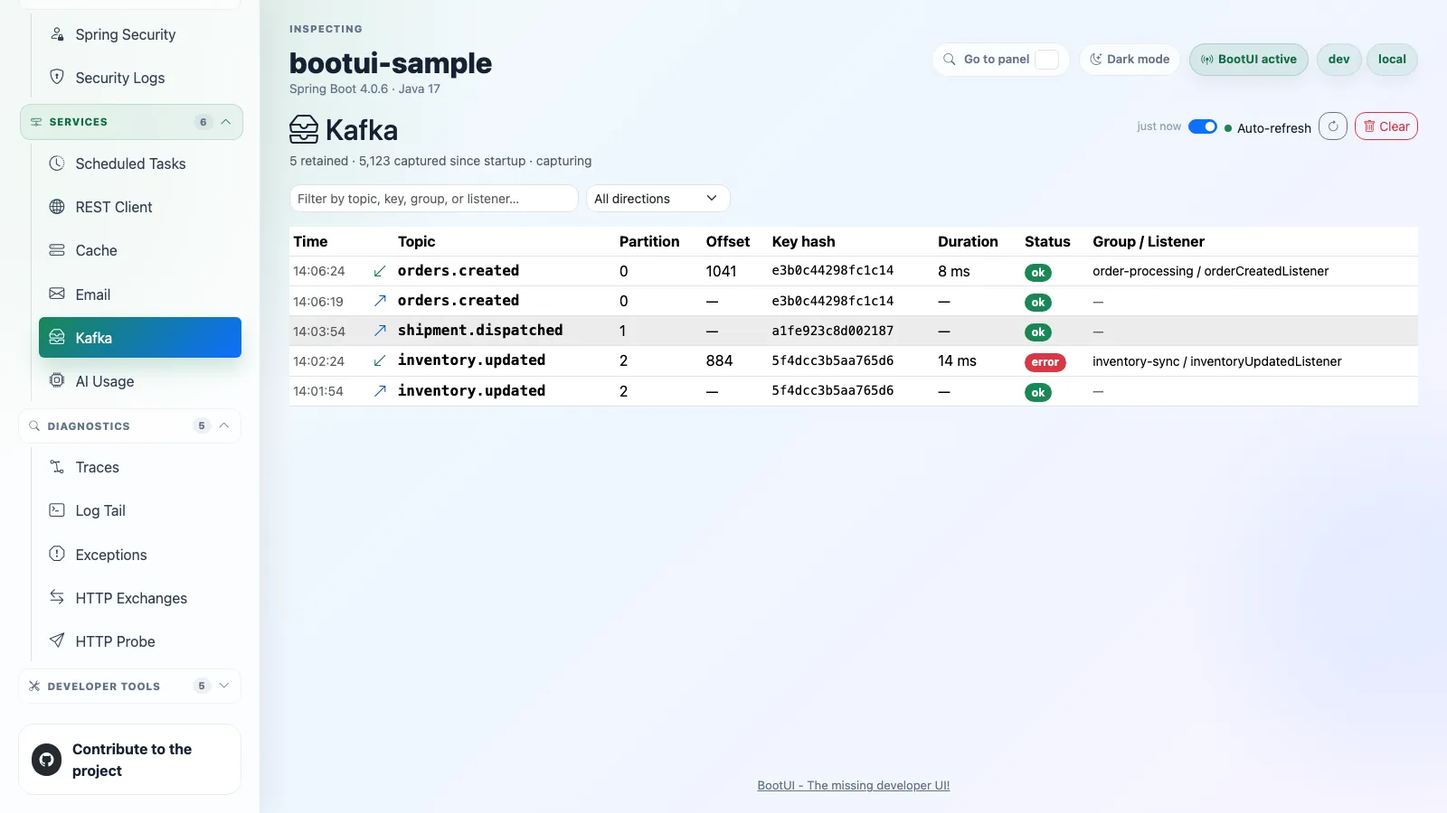
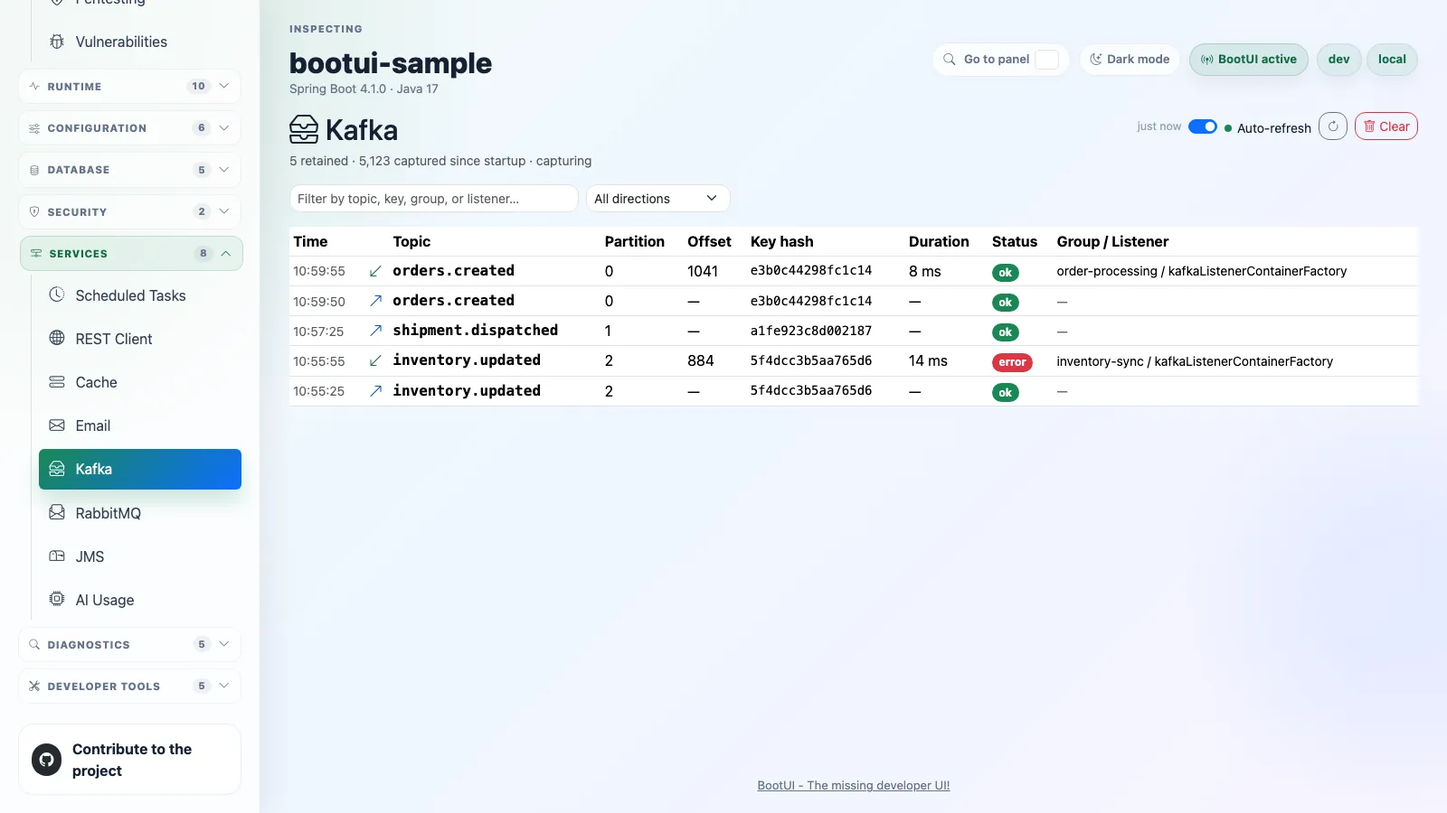
Refresh messaging documentation and screenshots (#689)
* Initial plan

* feat: add JMS messaging activity to Live Activity

- Add recordJmsProduce/recordJmsConsume to KafkaActivityRecorder (engine)
- JmsProducerCaptureBeanPostProcessor wraps JmsTemplate via CGLIB proxy
- JmsListenerCaptureBeanPostProcessor wraps AbstractJmsListenerContainerFactory
  and composes with existing message listeners via CapturingMessageListenerAdapter
- Add bootui.jms.enabled toggle to BootUiProperties
- Add jakarta.jms-api + spring-jms optional deps to spring-autoconfigure
- Fix HttpSessions class head accidentally removed when inserting Jms class
- Tests: 36 new tests (14 engine + 22 BPP); all 1367 module tests pass
- Update docs/PLAN.md and docs/FEATURES.md to document JMS support

* fix: harden JMS live activity capture

* Decouple JMS live activity capture

Give JMS its own framework-neutral recorder, retention settings, counters, and Live Activity mapping so it no longer shares Kafka state while preserving Spring-level interception.

* Add dedicated JMS activity panel

Expose the independent Spring JMS capture through a filterable Services panel, wire shared availability and access policy across adapters, and keep Quarkus explicitly not yet available.

Copilot-Session: f5f7bcaa-34aa-4069-bf48-c7edaa9d489c

* Harden messaging activity coherence

Copilot-Session: f5f7bcaa-34aa-4069-bf48-c7edaa9d489c

* docs: refresh messaging documentation
[…]

diff --git a/docs/QUARKUS-SUPPORT.md b/docs/QUARKUS-SUPPORT.md
@@ -164,10 +164,12 @@ extension of the mechanism `App.vue` already uses, so the same UI build renders 
 > **Implementation status (current).** The Quarkus adapter now lights up the large majority of the panel set — all of
 > §5.1 and §5.2 below, plus the advisors (Architecture, the Quarkus application advisor replacing Spring, Hibernate,
 > Pentesting, a Quarkus-native Security advisor, REST API, Memory) and the §5.3 capture panels (HTTP Exchanges, Live
-> Activity, Log Tail, SQL Trace, REST Client, Exceptions, Security Logs, Email, Kafka). **Action-capable panels behave identically to Spring**,
-> behind the shared `LocalhostGuard` write floor: Heap Dump (capture/analyze/delete/download), Threads (download), the
-> advisor scans, Loggers (set level), HTTP Probe, Cache (clear), Flyway (migrate/clean), Liquibase (update), Traces
-> (clear), Email (clear), Kafka (clear), REST Client Reactive (clear + recording toggle), and the MCP Server toggle. Only **GraalVM**, **CRaC**, **Conditions**, **Startup Timeline**,
+> Activity, Log Tail, SQL Trace, REST Client, Exceptions, Security Logs, Email, Kafka, RabbitMQ).
+> **Action-capable panels behave identically to Spring**, behind the shared `LocalhostGuard` write floor: Heap Dump
+> (capture/analyze/delete/download), Threads (download), the advisor scans, Loggers (set level), HTTP Probe, Cache
+> (clear), Flyway (migrate/clean), Liquibase (update), Traces (clear), Email (clear), Kafka (clear), RabbitMQ (clear),
+> REST Client Reactive (clear + recording toggle), and the MCP Server toggle. Only **GraalVM**, **CRaC**,
+> **Conditions**, **Startup Timeline**,
 > **HTTP Sessions**, **Spring Data**, **Spring Security**, and **DevTools** stay unavailable with a panel-specific
 > not-applicable reason (§5.5). The per-panel `**Implemented**` markers below and `docs/FEATURES.md` carry the authoritative, current
 > per-platform detail.
@@ -221,6 +223,17 @@ The DTO and UI are reused; the Quarkus adapter rebuilds the capture/source on th
 | `Email`               | **Implemented** — captured via a CDI `@Observes SentMail` observer (`QuarkusEmailCapture`) into the shared `EmailCaptureService`, replacing Spring's `CapturingJavaMailSender` decorator; one observer catches the blocking/reactive/Mutiny send styles (all funnel through the internal mailer that fires `io.quarkus.mailer.SentMail` after each successful send, mock or real). Gated on `quarkus-mailer` — the sole `io.quarkus.mailer`-importing class (`QuarkusEmailCapture`) is `provided`-scoped and excluded by the deployment `registerEmail` build step (class-presence check on `io.quarkus.mailer.reactive.ReactiveMailer`, non-prod only) when absent, R2; the mailer-free `EmailResource`/`EmailCaptureService` are always wired, so `GET /bootui/api/email` renders `available:false` with a `quarkus-mailer` hint rather than throwing. The `.eml` download delegates to the shared engine renderer so the bytes match Spring. Reduced fidelity: because the event fires *after* the send, there is no BootUI dev-trap — the sent/not-sent distinction instead reflects the framework's own mock-mail mode (`quarkus.mailer.mock`, default in dev/test), labelled **mock** in the UI; attachment size is unknown (the sent-attachment API exposes none). Content masking is identical (revealed by default, decoupled from `bootui.expose-values`; opt in with `bootui.email.mask-content=true`). `clear` (DELETE) behind the `LocalhostGuard` write floor |
 | `Kafka`               | **Implemented** — the standalone panel over the same shared `KafkaActivityRecorder`/`Capability.KAFKA` gate described in the `Live Activity` row above; `GET`/`DELETE /bootui/api/kafka` mirror Spring's `KafkaController` contract exactly (list newest-first, clear), and the same reduced-fidelity notes carry over unchanged: metadata-only capture (never the payload), a null consumer group id (`IncomingKafkaRecordMetadata` exposes none), the channel name used as the listener id, and a null producer duration (the ack callback carries no send-start timestamp). Reports unavailable with a `quarkus-messaging-kafka` hint when the capability is absent. `clear` (DELETE) behind the `LocalhostGuard` write floor |
 | `RabbitMQ`            | **Implemented** — the standalone panel over the shared `RabbitActivityRecorder` and class-presence gate described in the `Live Activity` row above; `GET`/`DELETE /bootui/api/rabbitmq` mirror Spring's list/clear contract. Capture is metadata-only, correlation IDs are omitted by default and hashed when explicitly enabled, and failures use generic text. Reports unavailable with a `quarkus-messaging-rabbitmq` hint when the connector is absent. `clear` (DELETE) behind the shared write and panel read-only gates |
+
+**Current Quarkus messaging interceptor limitations.** Incoming Kafka/RabbitMQ deliveries carry connector metadata and
+are captured normally. An outgoing message is captured only when it already carries the matching
+`OutgoingKafkaRecordMetadata` or `OutgoingRabbitMQMetadata`; a payload-only emission that relies entirely on channel
+configuration is not visible at the interceptor callback. SmallRye also selects only one default
+`OutgoingInterceptor` and one default `IncomingInterceptor` per channel. BootUI's Kafka and RabbitMQ pairs are both
+default-qualified at the same fallback priority, so an application that installs both connectors currently gets capture
+for only the pair SmallRye selects; a channel-specific application interceptor takes precedence over BootUI as designed.
+Finally, Kafka availability is currently gated by the broad Quarkus `KAFKA` capability, so an application with only the
+lower-level `quarkus-kafka-client` can over-report the panel as available even though Reactive Messaging capture is not
+wired.
 
 **Why the per-request profiler (`GET /bootui/api/activity/{id}`) is trace-id-only on Quarkus.** Spring's
 `/activity/request/{id}` profiler is a Symfony-style join across SQL, exceptions, security audit events, the distributed
@@ -524,13 +537,14 @@ Pentesting, HTTP Probe, MCP Server) need no special ingredients — they work ag
 | REST API            | **done**    | Rebuild | REST conventions engine          | JAX-RS handler-model builder                |
 | DB Connection Pools | **done**    | Rebuild | Pool model                       | `DataSourcePoolProvider` → Agroal           |
 | SQL Trace           | **done**    | Rebuild | SQL trace model                  | `SqlTraceSource` → Agroal/JDBC              |
-| Live Activity       | **done**    | Rebuild | Activity model                   | `RequestCaptureSource` → Vert.x; OTel trace-id correlation + trace-id-only profile drill-down; optional JDBC persistence backend via `QuarkusActivityCapture` (unconditional producers, identical to Spring); Kafka messaging capture via SmallRye `Outgoing`/`IncomingInterceptor` (`Capability.KAFKA`-gated) feeding the shared `KafkaActivityRecorder`; captured email (`MAIL`) reuses the shared `EmailCaptureService` directly, no separate capture needed |
+| Live Activity       | **done**    | Rebuild | Activity model                   | `RequestCaptureSource` → Vert.x; OTel trace-id correlation + trace-id-only profile drill-down; optional JDBC persistence backend via `QuarkusActivityCapture` (unconditional producers, identical to Spring); Kafka and RabbitMQ messaging capture via SmallRye `Outgoing`/`IncomingInterceptor` feeding the shared transport recorders; captured email (`MAIL`) reuses the shared `EmailCaptureService` directly, no separate capture needed |
 | HTTP Exchanges      | **done**    | Rebuild | Exchange model                   | `HttpExchangeProvider` → Vert.x             |
 | Exceptions          | **done**    | Rebuild | Exception model                   | log handler + Vert.x failure handler + `PreExceptionMapperHandlerBuildItem` |
 | Security Logs       | **done**    | Rebuild | Audit model                      | `AuditEventProvider` → CDI events           |
 | Log Tail            | **done**    | Rebuild | Log tail model                   | `LogCaptureSource` → JBoss LogManager       |
 | Email               | **done**    | Rebuild | Email capture service            | CDI `@Observes SentMail` observer → quarkus-mailer |
 | Kafka               | **done**    | Rebuild | `KafkaActivityRecorder`          | SmallRye `Outgoing`/`IncomingInterceptor` (`Capability.KAFKA`-gated); same recorder as Live Activity |
+| RabbitMQ            | **done**    | Rebuild | `RabbitActivityRecorder`         | SmallRye `Outgoing`/`IncomingInterceptor` (`quarkus-messaging-rabbitmq` class-presence-gated); same recorder as Live Activity |
 | JMS                 | spring-only | Rebuild | `JmsActivityRecorder`            | Quarkus JMS capture not yet implemented; use Kafka/RabbitMQ panels |
 | REST Client         | **done**    | Rebuild | `RestClientTraceRecorder`        | `Capability.REST_CLIENT_REACTIVE`-gated generated `RestClientListener` service provider → metadata-only `QuarkusRestClientTraceFilter`; URI sanitization, status-0 transport failures, trace correlation, SSE/actions, and absent-extension type exclusion |
 | Spring              | **done**    | Replace | Scanning engine                  | new `Quarkus` advisor ruleset               |

diff --git a/docs/PLAN.md b/docs/PLAN.md
@@ -75,7 +75,7 @@ shipped. The bean/dependency graph visualization (§3.2) is the one remaining it
 | 1        | Bean / dependency graph visualization | Configuration | Existing Beans and Conditions data                 | No                | Existing roadmap |
 | Done     | E-mail Viewer                         | Services      | Intercepted `JavaMailSender`                       | No (capture only) | New addition     |
 | Done     | Live Activity — REST call capture     | Diagnostics   | Intercepted `RestClient`/`RestTemplate`/`WebClient` | No (capture only) | Shipped |
-| Done     | Live Activity — new event types       | Diagnostics   | Cache, scheduled-task, Kafka, JMS, and mail capture sources (see §3.4) | No (capture only) | Cache, Scheduled Tasks, Kafka, JMS (Spring), and Mail all shipped |
+| Done     | Live Activity — new event types       | Diagnostics   | Cache, scheduled-task, Kafka, RabbitMQ, JMS, and mail capture sources (see §3.4) | No (capture only) | Cache, Scheduled Tasks, Kafka, RabbitMQ, JMS (Spring), and Mail all shipped |
 
 The Trace ↔ Log ↔ Request correlation work in §3.1 has shipped as the **Live Activity** panel, building on the
 already-shipped HTTP Exchanges panel and the existing Traces and Log Tail panels. The E-mail Viewer (§3.3) has shipped as
@@ -255,20 +255,22 @@ Scope — new event types, roughly in priority order:
   `OutgoingInterceptor`/`IncomingInterceptor` SPI as the Kafka capture
   (`QuarkusRabbitProducerCapture`/`QuarkusRabbitConsumerCapture`), capability-gated on `IncomingRabbitMQMetadata`
   class presence via a `registerRabbitCapture` deployment build-step (production-dark, R2), exactly like
-  Hibernate/Cache/Flyway. Both adapters capture direction, exchange, routing key, queue, success/failure, timing,
-  and (opt-in via `bootui.rabbitmq.capture-correlation-id=true`, default `false`) a hashed correlation ID —
-  never the message body, arbitrary headers, or raw exception messages. Both SmallRye capture pairs are the sole importers
-  of their connector-specific metadata types, are excluded from bean discovery when their extension is absent, are
-  pass-through/fail-open, and use the lowest interceptor precedence so an application's own channel interceptor wins.
+  Hibernate/Cache/Flyway. Both adapters use the same DTO for direction, routing metadata, success/failure, timing, and
+  (opt-in via `bootui.rabbitmq.capture-correlation-id=true`, default `false`) a hashed correlation ID; Quarkus leaves
+  producer exchange, consumer queue, and producer duration unavailable because SmallRye's callbacks do not expose them.
+  Neither adapter captures the message body, arbitrary headers, or raw exception messages. Both SmallRye capture pairs
+  are the sole importers of their connector-specific metadata types, are excluded from bean discovery when their
+  extension is absent, are pass-through/fail-open, and use the lowest interceptor precedence so an application's own
+  channel interceptor wins.
   `LiveActivityResource` merges both recorders' `MESSAGING` entries into the feed adapter-side (top-level, no request
   correlation), preserving the same wire shape across adapters. Kafka, RabbitMQ, and JMS are three unrelated client APIs,
   so each keeps an adapter-specific interception seam, a framework-neutral recorder, and an independent bounded buffer.
   Interception itself is more invasive than any existing capture source: it means wrapping the app's own messaging beans
   (a `BeanPostProcessor`, mirroring the existing HTTP Exchanges repository wrapper) or registering interceptor/advice
-  hooks, so pass-through-by-default and fail-open wrapping are non-negotiable design constraints, and message bodies
-  need their own bounding/masking design (arbitrary, potentially large application payloads, unlike a SQL statement or
-  HTTP header). On Quarkus, the interception point was different in kind, not just in wiring: Quarkus applications
-  typically use SmallRye Reactive Messaging (`@Incoming`/`@Outgoing` channels) rather than Spring's imperative
+  hooks, so pass-through-by-default and fail-open wrapping are non-negotiable design constraints; message bodies are
+  never captured rather than entrusted to a generic masker (they are arbitrary, potentially large application payloads,
+  unlike a SQL statement or HTTP header). On Quarkus, the interception point was different in kind, not just in wiring:
+  Quarkus applications typically use SmallRye Reactive Messaging (`@Incoming`/`@Outgoing` channels) rather than Spring's imperative
   `spring-kafka`/`spring-rabbit` templates, so the Quarkus capture is a per-adapter interceptor pair rather than the
   thinner Cache/Flyway provider seams — closer to the Beans panel's `BeanProvider` split (CDI vs. Spring bean
   introspection) in spirit, though the shared, framework-neutral recorders and entry mappings keep the engine seam intact.
@@ -278,7 +280,7 @@ Scope — new event types, roughly in priority order:
 - **Captured email — ✅ Shipped (both adapters).** The standalone Email panel (§3.3) already captured every outgoing
   message via the shared, framework-neutral `EmailCaptureService`; this item only adds a `MAIL` entry to the merged Live
   Activity feed, so — like Cache and Scheduled Task runs — it needed no new capture instrumentation, just a read of an
-  existing buffer. Unlike Kafka `MESSAGING` entries (always top-level, no correlation attempted, since a message has no
+  existing buffer. Unlike `MESSAGING` entries (always top-level, no correlation attempted, since a message has no
   single owning request), `MAIL` nests as a `REQUEST` child whenever the captured message's trace id matches an
   in-flight request — the same trace-id-then-thread `parentRequestId` join `SQL`/`CACHE` already use (`EXCEPTION`/
   `SECURITY` predate this join and are correlated differently depending on adapter: on Spring **servlet** (MVC),
@@ -324,9 +326,10 @@ Scope — enhancements on top of the shipped event types, generally cheaper than
   (Scheduled Task runs).
 - **Verify persistence and filtering stay generic over `type`** as new event types are added — `JdbcActivityStore`,
   `BufferedActivityStore`, and the client-side type filter chips pick up new types automatically; keep confirming this
-  with tests if any further event type (e.g. RabbitMQ messaging) lands later.
-- **Add deep links** for each entry type into its own source panel — Cache and Scheduled Tasks entries now link to
-  `/cache` and `/scheduled` respectively, and REST Client entries link to `/rest-client-trace`, joining the existing
+  with tests if any further event type lands.
+- **Add deep links** for each entry type into its own source panel — Cache, Scheduled Tasks, Kafka, RabbitMQ, JMS, and
+  REST Client entries now link to `/cache`, `/scheduled`, `/kafka`, `/rabbitmq`, `/jms`, and `/rest-client-trace`,
+  respectively, joining the existing
   per-entry deep links into HTTP Exchanges (REQUEST), SQL Trace (SQL), and Exceptions (EXCEPTION); the KPI strip's own
   launchpad cards additionally deep-link Health and Heap usage.
 
@@ -334,13 +337,13 @@ Design constraints:
 
 - Every new source stays **read-only** and **fails closed** when its backing bean/class is absent, consistent with
   §3.1/§3.3 and the cross-cutting rules in §4.
-- Sensitive payloads (cache keys/values, message bodies) are masked by default and follow the same value-exposure model
-  as the rest of the panel; cache keys are hashed rather than shown raw even under full exposure.
+- Messaging payloads are never captured; cache values are omitted and cache keys are hashed rather than shown raw even
+  under full exposure.
 - New capture buffers are bounded and self-filtering (BootUI's own traffic must not appear in its own feed), consistent
   with the existing `bootui.monitoring.exclude-self` behaviour.
-- Actual shipped sequencing: Scheduled Task runs and Cache operations landed first, then Kafka messaging, then Mail,
-  then REST call capture last — all five now shipped, each with `REQUEST`-nesting from day one where a nesting
-  relationship applies (Kafka `MESSAGING` is the deliberate exception: always top-level, no correlation attempted).
+- Actual shipped sequencing: Scheduled Task runs and Cache operations landed first, then `MESSAGING` (initially Kafka,
+  later RabbitMQ and Spring JMS), then Mail, and finally REST call capture — all five event types now ship, each with
+  `REQUEST`-nesting where a nesting relationship applies (`MESSAGING` is deliberately always top-level).
 
 ## 4. Cross-cutting work for every new panel
 

diff --git a/docs/SPECIFICATION.md b/docs/SPECIFICATION.md
@@ -841,8 +841,12 @@ Features:
   `KafkaConsumerCaptureBeanPostProcessor` wrap application-owned `KafkaTemplate` and `@KafkaListener` container factory
   beans — composing with, never replacing, any `ProducerListener`/`RecordInterceptor` the application already
   configured, mirroring the HTTP Exchanges repository-wrapper precedent. On Quarkus, SmallRye Reactive Messaging Kafka
-  interceptors capture the same metadata. Each entry carries topic, partition, offset (consume only), a hash of the key,
-  direction, success/failure, and — for consumed records — consumer group id, listener id, and processing duration.
+  interceptors capture the same metadata their callback exposes. Each entry carries topic, partition, offset (consume
+  only), a hash of the key, direction, success/failure, and — for consumed records — listener id and processing
+  duration. Spring also captures the consumer group id; Quarkus leaves group id and producer duration unavailable.
+  Quarkus incoming deliveries carry connector metadata automatically, while an outgoing message is recorded only when
+  `OutgoingKafkaRecordMetadata` is attached before the interceptor; payload-only emissions that rely solely on channel
+  configuration are not captured.
   Only metadata is captured; the message value/payload is never captured or masked, since it is an arbitrary
   application payload with no generic masking strategy. Raw exception messages are never retained; failed operations
   use generic failure text. Kafka entries are always top-level by design — no request-parent correlation is attempted,
@@ -851,6 +855,17 @@ Features:
   container factory bean name (the resolved per-`@KafkaListener` id is not exposed at the factory-wide interception
   point), while on Quarkus it carries the channel name. Controlled by `bootui.kafka.enabled`,
   `bootui.kafka.capture-key`, `bootui.kafka.max-entries`, and `bootui.kafka.max-key-length`.
+- RabbitMQ producer/consumer capture: on Spring, post-processors compose with every application-owned `RabbitTemplate`
+  before-publish processor and listener-container-factory advice chain; on Quarkus, SmallRye Reactive Messaging
+  `OutgoingInterceptor`/`IncomingInterceptor` implementations are class-presence-gated on
+  `quarkus-messaging-rabbitmq`. Both feed the shared, framework-neutral `RabbitActivityRecorder`. Captured metadata is
+  bounded and payload-free: direction, routing metadata, outcome, consumer duration, and—when explicitly enabled—a
+  truncated SHA-256 correlation-ID hash. Quarkus leaves producer exchange, consumer queue, and producer duration
+  unavailable because its callbacks do not expose them, and records an outgoing message only when
+  `OutgoingRabbitMQMetadata` is already attached. Message bodies, arbitrary headers, raw correlation IDs, and exception
+  messages are never retained; failures use generic text. RabbitMQ entries are always top-level, like Kafka.
+  Controlled by `bootui.rabbitmq.enabled`, `bootui.rabbitmq.capture-correlation-id`,
+  `bootui.rabbitmq.max-entries`, and `bootui.rabbitmq.max-correlation-id-length`.
 - JMS producer/consumer capture: on Spring MVC and WebFlux only, classpath-gated post-processors wrap application-owned
   `JmsTemplate` and `AbstractJmsListenerContainerFactory` beans without replacing converters, callbacks, listeners, or
   error handlers. The producer proxy records each public send operation once even when `convertAndSend` delegates
@@ -1105,11 +1120,13 @@ Data sources:
 Acceptance criteria:
 
 - Available whenever a `KafkaTemplate` bean is present on Spring, or the Quarkus `KAFKA` capability is present in a
-  non-production launch; otherwise the panel reports a clear unavailable reason instead of an empty list.
+  non-production launch; configured channels determine whether Quarkus records activity but do not gate panel
+  availability. Otherwise the panel reports a clear unavailable reason instead of an empty list.
 - Only metadata is ever captured — direction (`PRODUCE`/`CONSUME`), topic, partition, offset, duration,
-  success/failure, consumer group id, and listener/channel id. The message value/payload is never captured at all,
-  regardless of configuration, since it is an arbitrary, potentially large application payload with no generic
-  masking strategy (unlike a SQL statement or a config value). Raw exception messages are never retained; failure text
+  success/failure, consumer group id when the adapter exposes it (Spring), and listener/channel id. The message
+  value/payload is never captured at all, regardless of configuration, since it is an arbitrary, potentially large
+  application payload with no generic masking strategy (unlike a SQL statement or a config value). Raw exception
+  messages are never retained; failure text
   is generic.
 - The message key is never retained verbatim: when `bootui.kafka.capture-key=true` (the default), a SHA-256 hash of
   the key is captured and truncated to `bootui.kafka.max-key-length` hex characters; when disabled, the key is
@@ -1138,6 +1155,30 @@ Acceptance criteria:
   `bootui.panels.rabbitmq.read-only`. Disabling the RabbitMQ panel also stops its underlying capture.
 - Spring panel availability requires a `RabbitTemplate` bean. Quarkus availability requires the RabbitMQ messaging
   extension in a non-production launch. Dependency absence must not link optional RabbitMQ classes or advertise capture.
+- Quarkus preserves the shared wire contract but leaves producer exchange, consumer queue, and producer duration
+  unavailable because the SmallRye callbacks do not expose them.
+
+### 5.14.8 JMS Panel
+
+Purpose: show payload-free Spring JMS producer/consumer activity over the same independent bounded capture that feeds
+Live Activity's `MESSAGING` entries.
+
+Acceptance criteria:
+
+- Spring MVC and WebFlux wrap application-owned `JmsTemplate` and `AbstractJmsListenerContainerFactory` beans while
+  preserving converters, callbacks, listener dispatch interfaces, and error handlers. Direct lower-level
+  `JMSContext`/`MessageProducer`/`MessageConsumer` calls remain outside this Spring integration seam.
+- Only bounded metadata is captured: direction, sanitized destination, duration, success/failure type, subscription,
+  listener id, and—by default—a truncated hash of the provider-assigned message id (opt out with
+  `bootui.jms.capture-message-id=false`). Payloads, arbitrary headers/properties, raw message ids, provider-specific
+  destination strings, and exception messages are never retained.
+- The independent buffer is capped by `bootui.jms.max-entries`; disabling `bootui.jms.enabled` or the JMS panel stops
+  capture without affecting Kafka or RabbitMQ retention.
+- `GET /bootui/api/jms` lists entries newest-first and supports destination, message-id, subscription, listener,
+  failure-type, and direction filtering. Confirmation-gated `DELETE /bootui/api/jms` clears the shared panel/Live
+  Activity buffer and is blocked by `bootui.panels.jms.read-only`.
+- Spring availability requires a `JmsTemplate` bean and reports unavailable in a GraalVM native image because runtime
+  class proxies cannot be generated. Quarkus reports the panel not yet available and directs users to Kafka or RabbitMQ.
 
 ### 5.15 Profile Diff Panel
 

diff --git a/docs/FEATURES.md b/docs/FEATURES.md
@@ -1281,13 +1281,15 @@ Capture is on by default whenever a Kafka integration is present and the panel i
 `docs/PROPERTIES.md`. Turning off key capture (`bootui.kafka.capture-key=false`) is reflected in the panel with a notice
 instead of blank hashes, and turning off capture entirely (`bootui.kafka.enabled=false`) leaves already-captured
 messages visible with a similar notice. The panel is available only when a `KafkaTemplate` bean is present (e.g.
-`spring-kafka`); otherwise it reports a clear unavailable reason.
+Spring Boot's `spring-boot-starter-kafka`); otherwise it reports a clear unavailable reason.
 
-On Quarkus the panel is identical, running over the same shared engine `KafkaActivityRecorder` and the same
-`/bootui/api/kafka` contract (list/clear); the same difference already documented for Live Activity applies here too —
-the listener identifier is the channel name rather than a listener container factory bean name. The panel is available
-when `quarkus-messaging-kafka` is on the classpath with at least one `@Incoming`/`@Outgoing` channel configured (and
-dark in production); otherwise it reports a clear unavailable reason.
+On Quarkus the same UI and `/bootui/api/kafka` contract (list/clear) run over the shared engine
+`KafkaActivityRecorder`, with the reduced metadata exposed by SmallRye Reactive Messaging: the listener identifier is
+the channel name, while consumer group id and producer duration are unavailable. The panel is available when
+`quarkus-messaging-kafka` is on the classpath in a non-production launch; configured `@Incoming`/`@Outgoing` channels
+determine whether it receives any activity. Incoming deliveries carry connector metadata automatically; outgoing
+messages are captured only when they already carry `OutgoingKafkaRecordMetadata`, so a payload-only emission that relies
+entirely on channel configuration is not recorded. Without the extension the panel reports a clear unavailable reason.
 
 ![BootUI Kafka panel](./images/bootui-kafka.webp)
 
@@ -1312,10 +1314,13 @@ Capture is on by default whenever a RabbitMQ integration is present and the pane
 `bootui.rabbitmq.max-correlation-id-length` — see `docs/PROPERTIES.md`. The panel is available when a `RabbitTemplate`
 bean is present (e.g. `spring-rabbit` / `spring-boot-starter-amqp`); otherwise it reports a clear unavailable reason.
 
-On Quarkus the panel is identical, running over the same shared engine `RabbitActivityRecorder` and the same
-`/bootui/api/rabbitmq` contract (list/clear). The panel is available when `quarkus-messaging-rabbitmq` is on the
-classpath (and dark in production); otherwise it reports a
-clear unavailable reason.
+On Quarkus the same UI and `/bootui/api/rabbitmq` contract (list/clear) run over the shared engine
+`RabbitActivityRecorder`. SmallRye does not expose a producer exchange, consumer queue, or producer duration at these
+callbacks, so those per-message fields render as unavailable; routing key, outcome, and opt-in correlation-ID hash
+remain available. The panel is available when `quarkus-messaging-rabbitmq` is on the classpath in a non-production
+launch. Incoming deliveries carry connector metadata automatically; outgoing messages are captured only when they
+already carry `OutgoingRabbitMQMetadata`, so a payload-only emission that relies entirely on channel configuration is
+not recorded. Without the extension the panel reports a clear unavailable reason.
 
 ![BootUI RabbitMQ panel](./images/bootui-rabbitmq.webp)
 
@@ -1331,13 +1336,15 @@ Capture uses the same `JmsActivityRecorder` as Live Activity, so both surfaces s
 also clears retained JMS entries from the merged feed. Filter by destination, message-ID hash, subscription, listener, or
 failure type; narrow the table to produced or consumed messages; and use the confirmation-gated clear action to reset the
 bounded buffer. `bootui.jms.enabled`, `bootui.jms.capture-message-id`, `bootui.jms.max-entries`, and
-`bootui.jms.max-message-id-length` configure both surfaces. The panel is available when a `JmsTemplate` bean is present;
-otherwise it remains visible with a clear unavailable reason.
+`bootui.jms.max-message-id-length` configure both surfaces. The panel is available when a `JmsTemplate` bean is present
+(for example through Spring Boot's Artemis starter); otherwise it remains visible with a clear unavailable reason.
 
 JMS capture is currently Spring-only. On Quarkus the shared route remains visible but reports the panel not yet available;
 BootUI directs Quarkus applications to the Kafka and RabbitMQ panels backed by Reactive Messaging instead. The Spring
 interception uses runtime class proxies, so the JMS panel reports unavailable in a GraalVM native image rather than
 claiming capture is active when those proxies cannot be generated.
+
+![BootUI JMS panel](./images/bootui-jms.webp)
 
 ### AI Usage
 

diff --git a/docs/PROPERTIES.md b/docs/PROPERTIES.md
@@ -392,10 +392,13 @@ drawer additionally lists the flagged group's call site(s) whenever `bootui.sql-
 When Kafka support is present, BootUI captures producer/consumer outcomes into the Live Activity stream as `MESSAGING`
 entries. Spring does this by wrapping application-owned `KafkaTemplate` and `@KafkaListener` container factory beans;
 Quarkus does it through SmallRye Reactive Messaging Kafka interceptors. Only metadata is captured — topic, partition,
-offset, a hash of the key, timing, success/failure, consumer group id, and listener id — the message value/payload is
-never captured, and failure text is generic so exception messages cannot leak payload or credentials. On Spring, that
-listener-id field currently carries the listener container factory bean name (not the resolved per-`@KafkaListener` id);
-on Quarkus it carries the channel name. See [SPECIFICATION.md §5.14.2](./SPECIFICATION.md).
+offset, a hash of the key, timing, success/failure, consumer group id when exposed, and listener id — the message
+value/payload is never captured, and failure text is generic so exception messages cannot leak payload or credentials.
+On Spring, the consumer group is available and the listener-id field currently carries the listener container factory
+bean name (not the resolved per-`@KafkaListener` id); on Quarkus the group is unavailable and the channel name is used
+as the listener id. Quarkus outgoing capture requires `OutgoingKafkaRecordMetadata` to be attached before the interceptor;
+payload-only emissions that rely solely on channel configuration are not recorded. See
+[SPECIFICATION.md §5.14.2](./SPECIFICATION.md).
 
 | Property                             | Default | Description                                                                                                    |
 | ------------------------------------- | ------- | ---------------------------------------------------------------------------------------------------------------- |
@@ -428,7 +431,9 @@ When RabbitMQ support is present, BootUI captures publish/consume activity as `M
 application-owned `RabbitTemplate` before-publish processors and listener-factory advice; Quarkus uses SmallRye Reactive
 Messaging RabbitMQ interceptors. Message bodies and arbitrary headers are never captured. Routing metadata is bounded,
 correlation IDs are omitted by default and stored only as a SHA-256 hash when explicitly enabled, and failure details are
-generic so exception messages cannot leak payload or credential data.
+generic so exception messages cannot leak payload or credential data. On Quarkus, producer exchange, consumer queue, and
+producer duration are unavailable because SmallRye's callbacks do not expose them; outgoing capture also requires
+`OutgoingRabbitMQMetadata` to be attached before the interceptor.
 
 | Property                                         | Default | Description |
 | ------------------------------------------------ | ------- | ----------- |
@@ -508,7 +513,7 @@ The Kafka panel is a dedicated, filterable view over the same producer/consumer 
 
 | Property                       | Default | Description                                                                                                                                        |
 | -------------------------------- | ------- | ---------------------------------------------------------------------------------------------------------------------------------------------------- |
-| `bootui.panels.kafka.enabled`   | `true`  | Show the Kafka panel when a Kafka integration is present (`KafkaTemplate` on Spring, or `quarkus-messaging-kafka` with a configured channel on Quarkus). |
+| `bootui.panels.kafka.enabled`   | `true`  | Show the Kafka panel when a Kafka integration is present (`KafkaTemplate` on Spring, or `quarkus-messaging-kafka` in a non-production Quarkus launch). Configured channels determine whether activity is captured, not panel availability. |
 | `bootui.panels.kafka.read-only` | `false` | Disable the clear action while keeping captured messages visible.                                                                                  |
 
 ### RabbitMQ

diff --git a/docs/WEBFLUX-SUPPORT.md b/docs/WEBFLUX-SUPPORT.md
@@ -92,7 +92,7 @@ reactive binding (e.g. a `WebFilter` capturing into the same engine store) · `R
 capture layer replacing a servlet-only primitive · `Not yet ported` = deliberately deferred, no reactive
 implementation wired yet · `Not applicable` = no faithful reactive analog exists for this panel's concept.
 
-### 6.1 Ported as-is (37 panels)
+### 6.1 Ported as-is (39 panels)
 
 Bulk-imported from the servlet adapter's `@RestController`s with no code changes at all — confirming these
 controllers were already framework-neutral in practice, not just in the engine underneath them:
@@ -100,10 +100,12 @@ controllers were already framework-neutral in practice, not just in the engine u
 Overview · GitHub · Beans · Conditions · Configuration · Mappings · Health · Loggers · Startup Timeline · Spring Data ·
 Hibernate · Flyway · Liquibase · Database Connection Pools · Cache · Dev Services · Vulnerabilities · Scheduled Tasks ·
 HTTP Probe · Pentesting · Heap Dump · Architecture · REST API advisor · Profile Diff · Spring advisor[^spring-advisor-reactive] ·
-Live Memory · JVM Tuning · Metrics · DevTools · Traces · AI Usage · GraalVM · CRaC · Threads · Memory · Email · Kafka.
-`KafkaController` and its `KafkaTemplate`/`@KafkaListener` `BeanPostProcessor` capture pair have no
-`ConditionalOnWebApplication`/reactive-specific code at all, so the panel and its Live Activity `MESSAGING` capture
-work identically to the servlet adapter with zero adapter changes, the same as Email.
+Live Memory · JVM Tuning · Metrics · DevTools · Traces · AI Usage · GraalVM · CRaC · Threads · Memory · Email · Kafka ·
+RabbitMQ · JMS. `KafkaController`, `RabbitController`, and `JmsController`, plus their template/listener-factory
+`BeanPostProcessor` capture pairs, have no `ConditionalOnWebApplication` or reactive-specific code, so the panels and
+their Live Activity `MESSAGING` capture work identically to the servlet adapter with zero adapter changes. JMS remains
+an imperative, blocking broker API, but its work runs on the application's JMS template/listener threads; the WebFlux
+panel only reads the shared in-memory recorder.
 
 [^spring-advisor-reactive]: The `SpringController` wiring itself needed no adapter change, but the ruleset it runs
     (`SpringScanner`/`SpringRules`) is reactive-aware internally: it detects a WebFlux `ReactiveWebApplicationContext`
